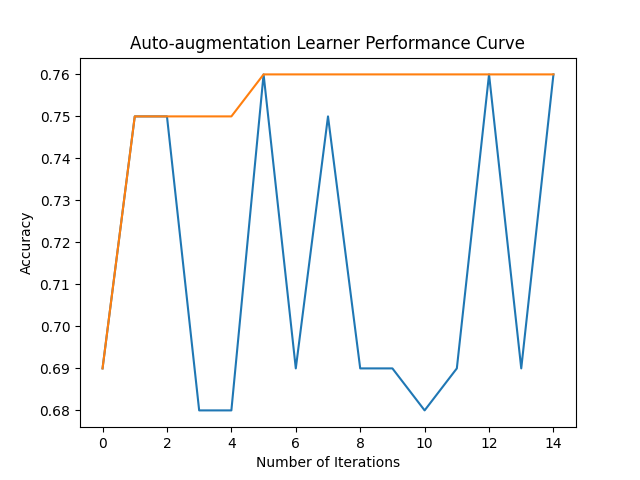
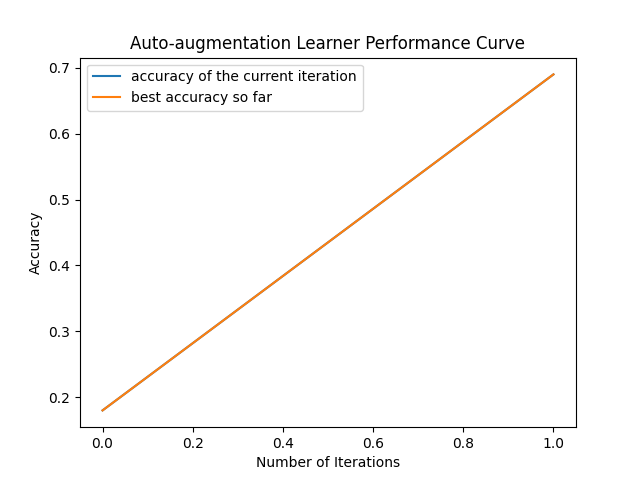
web app done!

diff --git a/react_frontend/src/pages/Result.js b/react_frontend/src/pages/Result.js
@@ -1,30 +1,10 @@
 import React, { useState, useEffect } from "react";
-import { Grid, Paper, Card, CardContent, Typography, Button, CardMedia } from '@mui/material';
+import { Grid, Paper, Card, CardContent, Typography, Button, CardMedia, Box } from '@mui/material';
 import output from './output.png'
 import {useNavigate, Route} from "react-router-dom";
 import axios from 'axios'
 import fileDownload from 'js-file-download'
-import policy from './policy.txt'
 
-function readTextFile(file)
-{
-    var rawFile = new XMLHttpRequest();
-    rawFile.open("GET", file, false);
-    rawFile.onreadystatechange = function ()
-    {
-        if(rawFile.readyState === 4)
-        {
-            if(rawFile.status === 200 || rawFile.status == 0)
-            {
-                var allText = rawFile.responseText;
-                alert(allText);
-            }
-        }
-    }
-    rawFile.send(null);
-}
-const policy_txt = readTextFile("./policy.txt");
-console.log('policy_txt',policy_txt)
 
 export default function Result() {
 
@@ -50,26 +30,21 @@ export default function Result() {
                     <Typography gutterBottom variant="h5" align="left">
                         Here are the results from our auto-augment agent:
                     </Typography>
-                    <Grid style={{padding:"30px"}} container spacing={4} alignItems="center">
-                        <Grid xs={7} item> 
-                            <CardMedia
-                            style={{width: "auto", maxHeight: "300px"}}
+                    <Box 
+                                    display="flex" 
+                                    justifyContent="center"
+                                    style={{padding:"30px"}}
+                                >
+                    <Grid style={{width:"400px"}}>
+                    <Paper elevation={3}>
+                    <CardMedia
+                            style={{width: "auto", maxHeight: "300px", }}
                             component="img"
                             image={output}
                             />
-                        </Grid>
-                        <Grid xs={5} item> 
-                            <Paper elevation={3}>
-                                {policy}
-                                {/* <Typography>
-                                write something here to explain the meaning of the graph to the user
-                                </Typography>    */}
-                            </Paper>
-                            {/* <Typography>
-                                write something here to explain the meaning of the graph to the user
-                            </Typography> */}
-                        </Grid>
+                    </Paper>
                     </Grid>
+                    </Box>
 
                     <Typography  variant='subtitle1' align='center'>
                         You can download the augentation policy here

diff --git a/react_frontend/src/pages/Home.js b/react_frontend/src/pages/Home.js
@@ -90,6 +90,8 @@ export default function Home() {
         setExpanded(!expanded);
     };
 
+    const ds_link = <a href="https://pytorch.org/vision/main/generated/torchvision.datasets.ImageFolder.html" >link</a>;
+
         return (
         <div className="App" style={{padding:"60px"}}> 
             <Typography gutterBottom variant="h3" align="center" >
@@ -135,6 +137,10 @@ export default function Home() {
                                     <Alert severity="error">
                                         <AlertTitle>This field is required</AlertTitle>
                                     </Alert>}
+                                <Typography style={{ maxWidth: 750}} variant="body2" color="textSecondary" component="p" gutterBottom align="left">
+                                    If you would like to upload your own dataset, please choose 'Other'. 
+                                    The dataset folder has to follow a specific strcuture, please follow this {ds_link} for more details
+                                </Typography>
                                 {watchFileds[0]!=='Other' && 
                                     <input
                                         {...register('ds_upload')}
@@ -235,7 +241,7 @@ export default function Home() {
 
                             <FormControl style={{ maxWidth: 800, padding:"20px"}} error={Boolean(errors.select_learner)}>
                                 <FormLabel id="select_learner" align="left" variant="h6">
-                                    Please select the auto-augment learners you'd like to use (multiple learners can be selected)
+                                    Please select the auto-augment learners you'd like to use
                                 </FormLabel>
                                 <Box 
                                     display="flex" 
@@ -268,7 +274,10 @@ export default function Home() {
                                         <AlertTitle>This field is required</AlertTitle>
                                     </Alert>}
                                 <Typography style={{ maxWidth: 800}} variant="body2" color="textSecondary" component="p" gutterBottom align="left">
-                                    (give user some recommendation here...)
+                                We would recommend choosing the agent based on your requirements. 
+                                If you are uncertain of your child network hyperparameters (such as learning rate, batch size), we would recommend the UCB1 learner; 
+                                if you are more familiar with your network and have more time to train, we would recommend the GRU learner; 
+                                if you have a lot of time available we would recommend the Random Searcher or Evolutionary learner. 
                                 </Typography>
                             </FormControl>
                         </CardContent>

diff --git a/react_backend/parse_ds_cn_arch.py b/react_backend/parse_ds_cn_arch.py
@@ -5,7 +5,7 @@ import torchvision
 import torchvision.datasets as datasets
 import pickle
 
-def parse_ds_cn_arch(ds, ds_name, IsLeNet):
+def parse_ds_cn_arch(ds, ds_name, IsLeNet, network_name): 
     if ds == "MNIST":
         train_dataset = datasets.MNIST(root='./datasets/mnist/train', 
                         train=True, download=True, transform=None)
@@ -32,7 +32,7 @@ def parse_ds_cn_arch(ds, ds_name, IsLeNet):
         test_dataset = datasets.CIFAR100(root='./datasets/cifar100/test', train=False, 
                         download=True, transform=torchvision.transforms.ToTensor())
     elif ds == 'Other':
-        dataset = datasets.ImageFolder('./datasets/upload_dataset/'+ ds_name, transform=None)
+        dataset = datasets.ImageFolder('./react_backend/datasets/upload_dataset/'+ ds_name, transform=None)
         len_train = int(0.8*len(dataset))
         train_dataset, test_dataset = torch.utils.data.random_split(dataset, [len_train, len(dataset)-len_train])
 
@@ -62,6 +62,6 @@ def parse_ds_cn_arch(ds, ds_name, IsLeNet):
     elif IsLeNet == 'SimpleNet':
         child_architecture = SimpleNet(img_height, img_width, num_labels, img_channels)
     else:
-        child_architecture = pickle.load(open(f'datasets/childnetwork', "rb"))
+        child_architecture = pickle.load(open(f'./react_backend/child_networks/{network_name}', "rb"))
 
     return train_dataset, test_dataset, child_architecture 

diff --git a/react_app.py b/react_app.py
@@ -54,7 +54,7 @@ def get_form_data():
         if form_data['iterations'] not in ['undefined', ""]: 
             iterations = int(form_data['iterations'])      # total iterations, should be more than the number of policies
         else: 
-            iterations = 2
+            iterations = 10
         exclude_method = form_data['select_action']
         print('@@@ advanced search: batch_size:', batch_size, 'learning_rate:', learning_rate, 'toy_size:', toy_size, 'iterations:', iterations, 'exclude_method', exclude_method)
         
@@ -115,7 +115,7 @@ def get_form_data():
                 current_app.config['data'] = data
                 return data 
             else: 
-                childnetwork.save('./child_networks/'+childnetwork.filename)
+                childnetwork.save('./react_backend/child_networks/'+network_name)
         else: 
             network_name = None
 
@@ -189,8 +189,8 @@ def training():
     # plot both here
     fig = plt.figure()
     ax = fig.add_subplot(1, 1, 1)
-    ax.plot(acc_list, label="accuracy of the current iteration")
-    ax.plot(best_acc_list, label='best accuracy so far')
+    ax.plot(range(1, len(acc_list)+1), acc_list, label="accuracy of the current iteration")
+    ax.plot(range(1, len(best_acc_list)+1), best_acc_list, label='best accuracy so far')
     ax.legend()
     ax.set_xlabel('Number of Iterations')
     ax.set_ylabel('Accuracy')

diff --git a/test/autoaug/test_GenLearner.py b/test/autoaug/test_GenLearner.py
@@ -12,7 +12,7 @@ def test_GenLearner():
                             transform=torchvision.transforms.ToTensor())
 
 
-    learner = aal.GenLearner(
+    learner1 = aal.GenLearner(
         # parameters that define the search space
                 sp_num=5,
                 p_bins=11,
@@ -28,8 +28,34 @@ def test_GenLearner():
                 num_offspring=1
     )
 
+
     # learn on the 3 policies we generated
-    learner.learn(
+    learner1.learn(
+        train_dataset=train_dataset,
+        test_dataset=test_dataset,
+        child_network_architecture=child_network_architecture,
+        iterations=3,
+        )    
+    
+    
+    learner2 = aal.GenLearner(
+        # parameters that define the search space
+                sp_num=5,
+                p_bins=11,
+                m_bins=10,
+                exclude_method=['ShearX'],
+                # hyperparameters for when training the child_network
+                batch_size=8,
+                toy_size=0.001,
+                learning_rate=1e-1,
+                max_epochs=float('inf'),
+                early_stop_num=10,
+                # Genetic learner specific settings
+                num_offspring=2
+    )
+
+    # learn on the 3 policies we generated
+    learner2.learn(
         train_dataset=train_dataset,
         test_dataset=test_dataset,
         child_network_architecture=child_network_architecture,

diff --git a/react_backend/wapp_util.py b/react_backend/wapp_util.py
@@ -22,6 +22,7 @@ def parse_users_learner_spec(
             ds, 
             ds_name, 
             IsLeNet, 
+            network_name,
             # aalearner type
             auto_aug_learner, 
             # search space settings
@@ -35,13 +36,12 @@ def parse_users_learner_spec(
             iterations, 
             learning_rate, 
             max_epochs,
-            # dummy variable which does nothing
-            network_name,
             ):
     train_dataset, test_dataset, child_archi = parse_ds_cn_arch(
                                                     ds, 
                                                     ds_name, 
-                                                    IsLeNet
+                                                    IsLeNet,
+                                                    network_name
                                                     )
     """
     The website receives user inputs on what they want the AaLearner

diff --git a/autoaug/autoaugment_learners/GenLearner.py b/autoaug/autoaugment_learners/GenLearner.py
@@ -57,7 +57,7 @@ class GenLearner(AaLearner):
                 batch_size=8,
                 toy_size=1,
                 # GenLearner specific settings
-                num_offspring=1, 
+                num_offspring=2, 
                 ):
 
         super().__init__(
@@ -325,8 +325,6 @@ class GenLearner(AaLearner):
                 policy = [self._gen_random_subpol()]
             else:
                 policy = self._bin_to_subpol(random.choice(self._generate_children()))
-            print('testing now@@@@@@@@@@@@@@@@@@@@@@@@@@@@@@@@@@@@@@@@@@@@@@')
-            print('testing now@@@@@@@@@@@@@@@@@@@@@@@@@@@@@@@@@@@@@@@@@@@@@@')
             pprint(policy)
             reward = self._test_autoaugment_policy(policy,
                                                 child_network_architecture,
